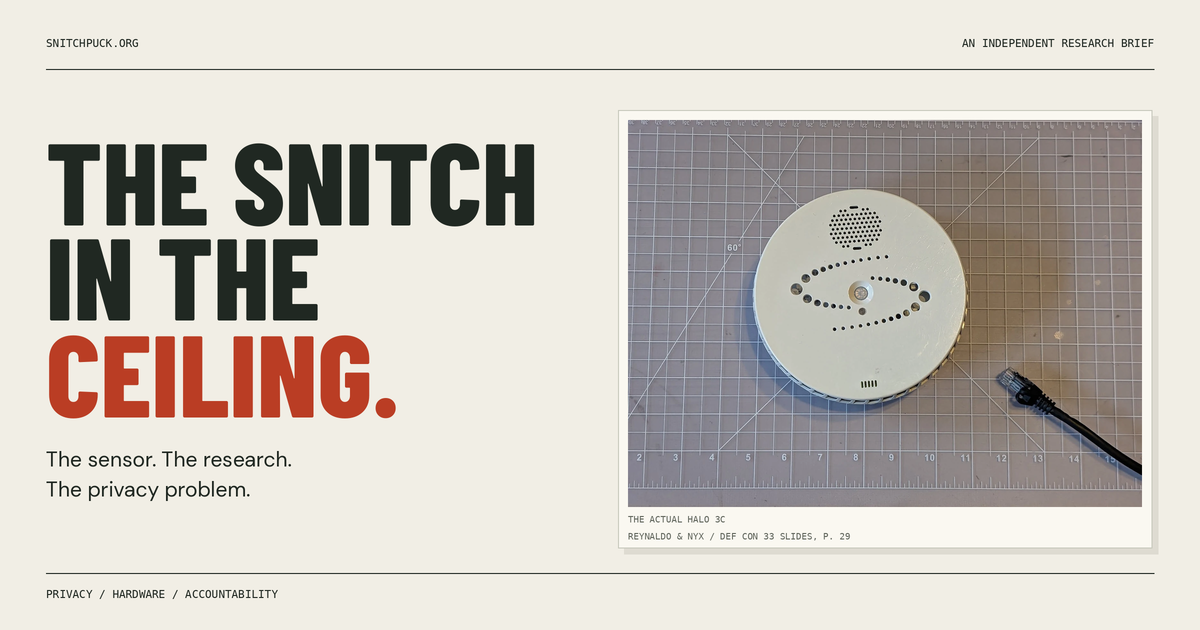
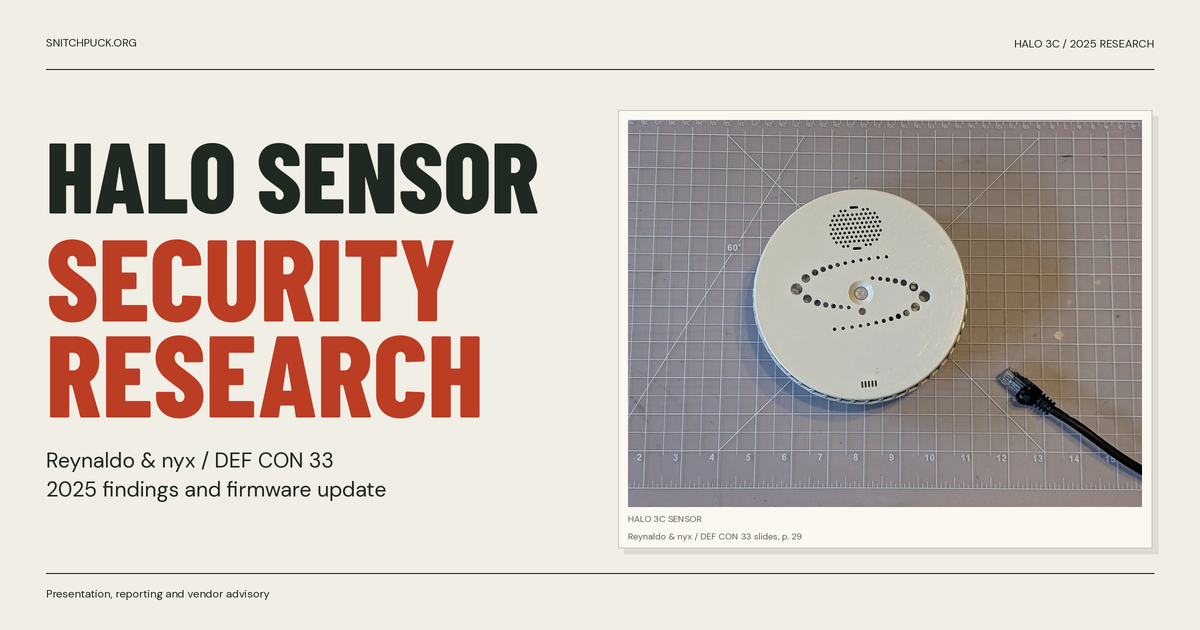
Replace promotional copy with a factual research summary

diff --git a/site/index.html b/site/index.html
@@ -4,11 +4,11 @@
 <meta charset="utf-8">
 <meta name="viewport" content="width=device-width, initial-scale=1">
 <meta name="theme-color" content="#f1eee5">
-<title>Snitch Puck | The sensor. The research. The privacy problem.</title>
-<meta name="description" content="How two researchers turned a school bathroom vape detector into an audio bug. An independent, sourced guide to the HALO research, disclosure, and response.">
+<title>HALO sensor security research | Snitch Puck</title>
+<meta name="description" content="Reynaldo and nyx’s 2025 research into HALO vape detectors, the reported vulnerabilities, and the vendor’s firmware update. Includes the talk, slides and sources.">
 <link rel="canonical" href="https://snitchpuck.org/">
-<meta property="og:title" content="The snitch in the ceiling.">
-<meta property="og:description" content="A school bathroom sensor. Two curious researchers. A privacy promise put to the test. Explore the Snitch Puck research.">
+<meta property="og:title" content="HALO sensor security research">
+<meta property="og:description" content="A summary of the 2025 HALO research, with the DEF CON talk, presentation slides, reporting and vendor advisory.">
 <meta property="og:type" content="website">
 <meta property="og:url" content="https://snitchpuck.org/">
 <meta property="og:image" content="https://snitchpuck.org/assets/social.png">
@@ -17,46 +17,42 @@
 <link rel="stylesheet" href="/assets/style.css">
 </head>
 <body id="top">
-<a class="skip" href="#story">Skip to the story</a>
+<a class="skip" href="#story">Skip to the research</a>
 <header class="header wrap">
 <a class="wordmark" href="#top" aria-label="Snitch Puck home"><svg viewBox="0 0 32 32" aria-hidden="true"><circle cx="16" cy="16" r="13"/><circle cx="16" cy="16" r="6"/><path d="M16 0v6m0 20v6M0 16h6m20 0h6"/></svg> SNITCHPUCK<span>.ORG</span></a>
-<nav aria-label="Main navigation"><a href="#story">The story</a><a href="#response">The response</a><a href="#sources">Sources <span aria-hidden="true">↗</span></a></nav>
+<nav aria-label="Main navigation"><a href="#story">Research</a><a href="#response">Timeline</a><a href="#sources">Sources <span aria-hidden="true">↗</span></a></nav>
 </header>
 <main>
 <section class="hero wrap" aria-labelledby="hero-title">
-<div class="hero-top mono"><span><i class="dot" aria-hidden="true"></i> AN INDEPENDENT RESEARCH BRIEF</span><span>PRIVACY / HARDWARE / ACCOUNTABILITY</span></div>
+<div class="hero-top mono"><span><i class="dot" aria-hidden="true"></i> HALO SMART SENSOR</span><span>DEF CON 33 / 2025</span></div>
 <div class="hero-grid">
-<div class="hero-copy"><h1 id="hero-title">THE SNITCH<br>IN THE<br><span>CEILING.</span></h1>
-<p class="dek">A school bathroom sensor. Two curious researchers. A privacy promise put to the test.</p>
-<div class="hero-actions"><a class="button primary" href="#story">Follow the research <span aria-hidden="true">↓</span></a><a class="text-link" href="https://www.youtube.com/watch?v=WCnojaEpF2I">Watch the DEF CON talk <span aria-hidden="true">↗</span></a></div>
+<div class="hero-copy"><h1 id="hero-title">HALO SENSOR<br><span>SECURITY<br>RESEARCH</span></h1>
+<p class="dek">In 2025, Reynaldo and nyx reported security flaws in the HALO 3C vape detector and demonstrated live audio monitoring.</p>
+<div class="hero-actions"><a class="button primary" href="#story">Research summary <span aria-hidden="true">↓</span></a><a class="text-link" href="https://www.youtube.com/watch?v=WCnojaEpF2I">Watch the DEF CON talk <span aria-hidden="true">↗</span></a></div>
 </div>
-<figure class="hero-art"><img src="/assets/halo-3c-photo.webp" alt="The actual HALO 3C sensor on a gridded workbench beside an Ethernet cable." width="1600" height="1204" fetchpriority="high"><figcaption class="mono">FIG. 01 / THE ACTUAL HALO 3C<br>FROM <a href="https://media.defcon.org/DEF%20CON%2033/DEF%20CON%2033%20presentations/Reynaldo%20nyx%20-%20Unmasking%20the%20snitch%20puck.pdf#page=29">REYNALDO &amp; NYX’S DEF CON 33 SLIDES, P. 29 <span aria-hidden="true">↗</span></a></figcaption></figure>
+<figure class="hero-art"><img src="/assets/halo-3c-photo.webp" alt="HALO 3C sensor on a workbench beside an Ethernet cable." width="1600" height="1204" fetchpriority="high"><figcaption class="mono">HALO 3C SENSOR<br>FROM <a href="https://media.defcon.org/DEF%20CON%2033/DEF%20CON%2033%20presentations/Reynaldo%20nyx%20-%20Unmasking%20the%20snitch%20puck.pdf#page=29">REYNALDO &amp; NYX’S DEF CON 33 SLIDES, P. 29 <span aria-hidden="true">↗</span></a></figcaption></figure>
 </div>
-<div class="hero-bottom mono"><span>CASE FILE 001 / HALO SMART SENSOR</span><a href="#story">LOOK A LITTLE CLOSER <span aria-hidden="true">↓</span></a></div>
+<div class="hero-bottom mono"><span>REYNALDO &amp; NYX / 2025 RESEARCH</span><a href="#story">RESEARCH SUMMARY <span aria-hidden="true">↓</span></a></div>
 </section>
-<section class="thesis" aria-label="The central finding"><div class="wrap thesis-grid"><p class="mono section-kicker">THE CENTRAL FINDING</p><p>A device sold for private spaces could become a listening device <em>when its software was compromised.</em> <a class="cite light" href="#source-2" aria-label="Source 2, WIRED reporting">[2]</a></p></div></section>
 <section class="section wrap" id="story" aria-labelledby="story-title">
-<div class="section-head"><p class="mono section-kicker">01 / THE STORY</p><h2 id="story-title">It started with<br>a student’s curiosity.</h2></div>
-<div class="story-grid"><div class="lede"><p>Rey found an unfamiliar device on his high school’s network. Getting a secondhand unit to examine turned a question about a ceiling sensor into a public security investigation.</p><p class="small">In his BSidesPDX retrospective, Rey describes moving from web security into hardware research and the Portland community that helped him along the way. <a class="cite" href="#source-5" aria-label="Source 5, Rey's BSidesPDX account">[5]</a></p></div>
-<div class="story-detail"><p class="mono eyebrow">FROM NETWORK DISCOVERY TO DEF CON</p><p>Reynaldo and nyx took the device apart, extracted its firmware, and examined the software behind its reassuring exterior. Their work became <em>Unmasking the Snitch Puck</em>, presented at DEF CON 33 in August 2025. <a class="cite" href="#source-1" aria-label="Source 1, DEF CON recording">[1]</a> <a class="cite" href="#source-8" aria-label="Source 8, conference archive">[8]</a></p><p>WIRED reported that attackers on the device’s network could guess weak administrator passwords and install custom firmware. Researchers demonstrated live listening through a secondhand HALO 3C’s microphones. <a class="cite" href="#source-2" aria-label="Source 2, WIRED reporting">[2]</a></p><p class="note"><strong>Read the finding carefully.</strong> A demonstrated capability is not proof that deployed devices were secretly recording people. The vendor’s advisory said it knew of no exploitation in customer environments. <a class="cite" href="#source-3" aria-label="Source 3, vendor advisory">[3]</a></p></div></div>
+<div class="section-head"><p class="mono section-kicker">01 / RESEARCH</p><h2 id="story-title">Research by Reynaldo and nyx</h2></div>
+<div class="story-grid"><div class="lede"><p>Rey found a HALO sensor on his high school’s network and later obtained a secondhand unit to examine.</p><p class="small">His BSidesPDX 2025 presentation describes the project’s origins. <a class="cite" href="#source-5" aria-label="Source 5, Rey's BSidesPDX account">[5]</a></p></div>
+<div class="story-detail"><p class="mono eyebrow">DEF CON 33 / AUGUST 2025</p><p>Reynaldo and nyx disassembled the unit, extracted its firmware and analyzed its software. They presented the findings at DEF CON 33 on August 8, 2025. <a class="cite" href="#source-1" aria-label="Source 1, DEF CON recording">[1]</a> <a class="cite" href="#source-8" aria-label="Source 8, conference archive">[8]</a></p><p>WIRED reported that an attacker on the device’s network could guess weak administrator passwords and install custom firmware. The researchers demonstrated live listening through the sensor’s microphones. <a class="cite" href="#source-2" aria-label="Source 2, WIRED reporting">[2]</a></p><p class="note">The demonstration does not establish that installed devices recorded occupants. The vendor’s August 2025 advisory said it knew of no exploitation in customer environments. <a class="cite" href="#source-3" aria-label="Source 3, vendor advisory">[3]</a></p></div></div>
 </section>
 <section class="device-section" aria-labelledby="device-title"><div class="wrap section">
-<div class="section-head"><p class="mono section-kicker">02 / INSIDE THE PROMISE</p><h2 id="device-title">No camera.<br>Still a privacy question.</h2></div>
-<div class="promise-grid"><div><p class="lede">HALO is marketed for vape detection, air quality, and safety alerts in places where cameras would be intrusive.</p><p>Its advertised audio analytics include selected spoken keywords, critical noises, and gunshot detection. <a class="cite" href="#source-4" aria-label="Source 4, product claims">[4]</a> Motorola’s 2024 solution brief describes HALO as <q>not using visual or audio recording</q>. <a class="cite" href="#source-9" aria-label="Source 9, Motorola solution brief">[9]</a> These are vendor claims, not an independent test of detection accuracy.</p></div><div class="signal-diagram" role="img" aria-label="The privacy boundary: audio sensing feeds software analysis, which produces an alert. The software is the part that must enforce the recording limit."><div class="signal-step"><span class="signal-icon" aria-hidden="true">∿</span><span>AUDIO INPUT</span></div><span class="diagram-arrow" aria-hidden="true">→</span><div class="signal-step boundary"><span class="signal-icon" aria-hidden="true">{ }</span><span>SOFTWARE</span></div><span class="diagram-arrow" aria-hidden="true">→</span><div class="signal-step"><span class="signal-icon" aria-hidden="true">!</span><span>ALERT</span></div><p>THE PRIVACY BOUNDARY LIVES IN THE SOFTWARE.</p></div></div>
-<div class="editorial-take"><span class="mono">OUR TAKEAWAY</span><p>A promise about what a sensor normally does depends on who can change what it does. Security is part of the privacy promise.</p></div>
+<div class="section-head"><p class="mono section-kicker">02 / DEVICE</p><h2 id="device-title">What HALO detects</h2></div>
+<div class="promise-grid"><div><p class="lede">HALO is marketed for vape detection, air quality monitoring and safety alerts.</p><p>Vendor-advertised audio features include selected spoken keywords, critical noises and gunshot detection. <a class="cite" href="#source-4" aria-label="Source 4, product claims">[4]</a> Motorola’s 2024 solution brief describes HALO as <q>not using visual or audio recording</q>. <a class="cite" href="#source-9" aria-label="Source 9, Motorola solution brief">[9]</a></p></div><div class="signal-diagram" role="img" aria-label="Simplified audio processing: audio input, software analysis and an alert."><div class="signal-step"><span class="signal-icon" aria-hidden="true">∿</span><span>AUDIO INPUT</span></div><span class="diagram-arrow" aria-hidden="true">→</span><div class="signal-step boundary"><span class="signal-icon" aria-hidden="true">{ }</span><span>SOFTWARE</span></div><span class="diagram-arrow" aria-hidden="true">→</span><div class="signal-step"><span class="signal-icon" aria-hidden="true">!</span><span>ALERT</span></div><p>SIMPLIFIED AUDIO PROCESSING</p></div></div>
 </div></section>
-<section class="section wrap" aria-labelledby="findings-title"><div class="section-head"><p class="mono section-kicker">03 / WHAT FAILED</p><h2 id="findings-title">Two weaknesses.<br>One broken boundary.</h2></div>
-<div class="findings"><article><span class="finding-number mono">01</span><h3>The login barrier</h3><p>The vendor acknowledged that brute-force attacks could bypass protections on the device’s web portal.</p><a class="source-inline" href="#source-3">Vendor advisory <span aria-hidden="true">↗</span></a></article><article><span class="finding-number mono">02</span><h3>The update barrier</h3><p>The same advisory acknowledged the ability to install unauthorized or malicious firmware.</p><a class="source-inline" href="#source-3">Vendor advisory <span aria-hidden="true">↗</span></a></article><article class="finding-result"><span class="finding-number mono">→</span><h3>The privacy barrier</h3><p>Controlling the software let the researchers repurpose a sensor as an audio bug.</p><a class="source-inline" href="#source-2">WIRED reporting <span aria-hidden="true">↗</span></a></article></div>
-<p class="section-footnote">This is a summary of the published research. It does not assess the configuration or firmware of any particular installation today.</p>
+<section class="section wrap" aria-labelledby="findings-title"><div class="section-head"><p class="mono section-kicker">03 / VULNERABILITIES</p><h2 id="findings-title">Reported vulnerabilities</h2></div>
+<div class="findings"><article><span class="finding-number mono">01</span><h3>Administrator login</h3><p>The vendor acknowledged that brute-force attacks could bypass protections on the device’s web portal.</p><a class="source-inline" href="#source-3">Vendor advisory <span aria-hidden="true">↗</span></a></article><article><span class="finding-number mono">02</span><h3>Firmware validation</h3><p>The same advisory acknowledged the ability to install unauthorized or malicious firmware.</p><a class="source-inline" href="#source-3">Vendor advisory <span aria-hidden="true">↗</span></a></article><article class="finding-result"><span class="finding-number mono">→</span><h3>Microphone access</h3><p>The researchers used modified firmware to demonstrate live audio monitoring.</p><a class="source-inline" href="#source-10">Presentation slides <span aria-hidden="true">↗</span></a></article></div>
 </section>
-<section class="timeline-section" id="response" aria-labelledby="response-title"><div class="section wrap timeline-layout"><div class="timeline-intro"><p class="mono section-kicker">04 / THE PUBLIC RECORD</p><h2 id="response-title">What happened.<br>What changed.</h2><p>Follow the product’s expansion, the disclosure, and the response.</p><span class="timeline-stamp mono">2023 → 2025</span></div>
-<ol class="timeline"><li><time datetime="2023-06-01" class="mono">JUN 01, 2023</time><div><h3>Beyond school bathrooms</h3><p>A vendor case study describes 12 HALO devices installed in Saratoga Springs public-housing apartments earlier that year to enforce a nonsmoking policy. <a class="cite" href="#source-6" aria-label="Source 6, housing case study">[6]</a></p></div></li><li><time datetime="2023-12-18" class="mono">DEC 18, 2023</time><div><h3>Motorola acquires IPVideo</h3><p>Motorola Solutions announces its acquisition of the company behind HALO. <a class="cite" href="#source-7" aria-label="Source 7, acquisition announcement">[7]</a></p></div></li><li><time datetime="2025-08-04" class="mono">AUG 04, 2025</time><div><h3>A critical security advisory</h3><p>The vendor publishes affected firmware versions and identifies version 2.17.0.2 as addressing the vulnerabilities. <a class="cite" href="#source-3" aria-label="Source 3, vendor advisory">[3]</a></p></div></li><li><time datetime="2025-08-08" class="mono">AUG 08, 2025</time><div><h3>The findings go public</h3><p>Reynaldo and nyx present at DEF CON 33. WIRED publishes its report on the audio-bug demonstration. <a class="cite" href="#source-8" aria-label="Source 8, conference archive">[8]</a> <a class="cite" href="#source-2" aria-label="Source 2, WIRED reporting">[2]</a></p></div></li><li><time datetime="2025-10-10" class="mono">OCT 10, 2025</time><div><h3>The talk reaches a wider audience</h3><p>DEF CON publishes the conference recording on its YouTube channel. <a class="cite" href="#source-1" aria-label="Source 1, DEF CON recording">[1]</a></p></div></li></ol>
+<section class="timeline-section" id="response" aria-labelledby="response-title"><div class="section wrap timeline-layout"><div class="timeline-intro"><p class="mono section-kicker">04 / DATES</p><h2 id="response-title">Timeline</h2><span class="timeline-stamp mono">2023 → 2025</span></div>
+<ol class="timeline"><li><time datetime="2023-06-01" class="mono">JUN 01, 2023</time><div><h3>Housing case study published</h3><p>A vendor case study describes 12 HALO devices installed in Saratoga Springs public-housing apartments earlier that year to enforce a nonsmoking policy. <a class="cite" href="#source-6" aria-label="Source 6, housing case study">[6]</a></p></div></li><li><time datetime="2023-12-18" class="mono">DEC 18, 2023</time><div><h3>Motorola acquires IPVideo</h3><p>Motorola Solutions announces its acquisition of IPVideo, the company behind HALO. <a class="cite" href="#source-7" aria-label="Source 7, acquisition announcement">[7]</a></p></div></li><li><time datetime="2025-08-04" class="mono">AUG 04, 2025</time><div><h3>Security advisory published</h3><p>The vendor publishes affected firmware versions and identifies version 2.17.0.2 as addressing the vulnerabilities. <a class="cite" href="#source-3" aria-label="Source 3, vendor advisory">[3]</a></p></div></li><li><time datetime="2025-08-08" class="mono">AUG 08, 2025</time><div><h3>DEF CON presentation</h3><p>Reynaldo and nyx present the research at DEF CON 33. WIRED publishes its report the same day. <a class="cite" href="#source-8" aria-label="Source 8, conference archive">[8]</a> <a class="cite" href="#source-2" aria-label="Source 2, WIRED reporting">[2]</a></p></div></li><li><time datetime="2025-10-10" class="mono">OCT 10, 2025</time><div><h3>Talk recording published</h3><p>DEF CON publishes the recording on YouTube. <a class="cite" href="#source-1" aria-label="Source 1, DEF CON recording">[1]</a></p></div></li></ol>
 </div></section>
-<section class="section wrap remediation" aria-labelledby="remediation-title"><div class="section-head"><p class="mono section-kicker">05 / THE VENDOR RESPONSE</p><h2 id="remediation-title">A fix was issued.<br>Deployment still matters.</h2></div><div class="remediation-grid"><div><p class="lede">The August 2025 advisory identifies a firmware remedy. It does not establish the update status of every device.</p><p>Cloud-connected units were to update automatically, except where customers opted out. Standalone units require manual installation. <a class="cite" href="#source-3" aria-label="Source 3, vendor advisory">[3]</a></p></div><div class="firmware"><table><caption class="mono">AFFECTED VERSIONS IN THE AUG 04, 2025 ADVISORY</caption><thead><tr><th scope="col">Device</th><th scope="col">Affected firmware</th></tr></thead><tbody><tr><th scope="row">HALO 3C</th><td>2.15.0.13 and earlier</td></tr><tr><th scope="row">HALO 2 / 2C</th><td>2.14.3.0 and earlier</td></tr></tbody></table><p><strong>Named fix: 2.17.0.2.</strong> For a current installation, check the vendor’s latest firmware and verify that it is installed. <a class="cite" href="#source-3" aria-label="Source 3, vendor advisory">[3]</a></p><a class="text-link" href="https://web.archive.org/web/20260922180259/https://halodetect.com/product-security/security-advisory/">Read the archived advisory <span aria-hidden="true">↗</span></a></div></div></section>
-<section class="questions-section"><div class="wrap section"><p class="mono section-kicker">06 / THE BIGGER QUESTION</p><h2>Who gets to decide<br>what a private space senses?</h2><p class="questions-dek">The patch addresses reported vulnerabilities. The research also invites a conversation about consent, oversight, and the limits of safety technology.</p><div class="questions"><div><span class="mono">ASK ABOUT PURPOSE</span><p>What problem is this sensor meant to solve, and what evidence shows it helps?</p></div><div><span class="mono">ASK ABOUT ACCESS</span><p>Who can access the device, change its firmware, or see the information it produces?</p></div><div><span class="mono">ASK ABOUT ACCOUNTABILITY</span><p>Who checks updates, reviews mistakes, and hears concerns from the people being monitored?</p></div></div><p class="questions-note">These are editorial questions for a school board, housing authority, or administrator, rather than findings about any specific deployment.</p></div></section>
-<section class="section wrap watch" aria-labelledby="watch-title"><div class="watch-visual" aria-hidden="true"><div class="play-triangle"></div><span class="mono">DEF CON 33<br>LAS VEGAS / 2025</span><div class="watch-lines"></div></div><div><p class="mono section-kicker">START WITH THE PRIMARY SOURCE</p><h2 id="watch-title">Hear it from<br>the researchers.</h2><p><em>Unmasking the Snitch Puck: IoT surveillance tech in the school bathroom</em><br>Reynaldo &amp; nyx · DEF CON 33</p><div class="watch-actions"><a class="button primary" href="https://www.youtube.com/watch?v=WCnojaEpF2I">Watch the full talk <span aria-hidden="true">↗</span></a><a class="text-link" href="https://media.defcon.org/DEF%20CON%2033/DEF%20CON%2033%20presentations/Reynaldo%20nyx%20-%20Unmasking%20the%20snitch%20puck.pdf">Read the slides (PDF) <span aria-hidden="true">↗</span></a></div><p class="small watch-privacy">The video opens on YouTube. No third-party player loads on this page.</p></div></section>
-<section class="sources-section" id="sources" aria-labelledby="sources-title"><div class="wrap section"><div class="sources-heading"><div><p class="mono section-kicker">07 / GO TO THE SOURCE</p><h2 id="sources-title">The reading room.</h2></div><p>Reporting, researcher accounts, and the vendor’s own documents. Each plays a different role in this story.</p></div><ol class="sources"><li id="source-1"><span class="source-type mono">PRIMARY / TALK</span><a href="https://www.youtube.com/watch?v=WCnojaEpF2I"><strong>Unmasking the Snitch Puck</strong><span>DEF CON · Reynaldo &amp; nyx · October 10, 2025 upload</span><b aria-hidden="true">↗</b></a></li><li id="source-2"><span class="source-type mono">REPORTING</span><a href="https://www.wired.com/story/school-bathroom-vape-detector-audio-bug/"><strong>A school bathroom detector becomes an audio bug</strong><span>WIRED with 404 Media · Andy Greenberg &amp; Joseph Cox · August 8, 2025</span><b aria-hidden="true">↗</b></a></li><li id="source-3"><span class="source-type mono">VENDOR / ADVISORY</span><a href="https://web.archive.org/web/20260922180259/https://halodetect.com/product-security/security-advisory/"><strong>HALO security advisory</strong><span>Motorola Solutions / HALO · August 4, 2025 entry · archived September 22, 2026</span><b aria-hidden="true">↗</b></a></li><li id="source-4"><span class="source-type mono">VENDOR / PRODUCT</span><a href="https://www.avigilon.com/sensors/halo-smart-sensor-3c"><strong>HALO 3C Smart Sensor</strong><span>Avigilon / Motorola Solutions · advertised capabilities and privacy claims</span><b aria-hidden="true">↗</b></a></li><li id="source-5"><span class="source-type mono">RESEARCHER ACCOUNT</span><a href="https://bsidespdx.org/events/2025/speakers"><strong>Beyond the Mask: The Snitchpuck</strong><span>Rey · BSidesPDX 2025 speaker abstract</span><b aria-hidden="true">↗</b></a></li><li id="source-6"><span class="source-type mono">VENDOR / CASE STUDY</span><a href="https://halodetect.com/case-studies/saratoga-springs-housing-authority/"><strong>Saratoga Springs Housing Authority</strong><span>HALO · June 1, 2023 · public-housing deployment</span><b aria-hidden="true">↗</b></a></li><li id="source-7"><span class="source-type mono">VENDOR / ANNOUNCEMENT</span><a href="https://www.motorolasolutions.com/newsroom/press-releases/motorola-solutions-acquires-halo-smart-sensor-creator-ipvideo.html"><strong>Motorola Solutions acquires IPVideo</strong><span>Motorola Solutions · December 18, 2023</span><b aria-hidden="true">↗</b></a></li><li id="source-8"><span class="source-type mono">CONFERENCE ARCHIVE</span><a href="https://infocondb.org/con/def-con/def-con-33/unmasking-the-snitch-puck-the-creepy-iot-surveillance-tech-in-the-school-bathroom"><strong>DEF CON 33 presentation record</strong><span>InfoconDB · August 8, 2025 presentation</span><b aria-hidden="true">↗</b></a></li><li id="source-9"><span class="source-type mono">VENDOR / SOLUTION BRIEF</span><a href="https://www.motorolasolutions.com/content/dam/msi/images/solutions/utilities/solving_for_safer_utilities_solution_brief_xp.pdf"><strong>Solving for safer utilities</strong><span>Motorola Solutions · 2024 · HALO recording claim on PDF page 4</span><b aria-hidden="true">↗</b></a></li><li id="source-10"><span class="source-type mono">PRIMARY / SLIDES</span><a href="https://media.defcon.org/DEF%20CON%2033/DEF%20CON%2033%20presentations/Reynaldo%20nyx%20-%20Unmasking%20the%20snitch%20puck.pdf"><strong>Unmasking the Snitch Puck: presentation slides</strong><span>Reynaldo &amp; nyx · DEF CON 33 · hardware photos on pages 29–35</span><b aria-hidden="true">↗</b></a></li></ol><p class="source-note">Sources checked October 14, 2026. Product pages may change. The advisory dates and firmware versions above refer to the 2025 disclosure.</p></div></section>
+<section class="section wrap remediation" aria-labelledby="remediation-title"><div class="section-head"><p class="mono section-kicker">05 / FIRMWARE</p><h2 id="remediation-title">August 2025 firmware update</h2></div><div class="remediation-grid"><div><p class="lede">The advisory lists the following affected versions and names firmware 2.17.0.2 as the fix.</p><p>Cloud-connected units were to update automatically, except where customers opted out. Standalone units require manual installation. <a class="cite" href="#source-3" aria-label="Source 3, vendor advisory">[3]</a></p></div><div class="firmware"><table><caption class="mono">AFFECTED VERSIONS IN THE AUG 04, 2025 ADVISORY</caption><thead><tr><th scope="col">Device</th><th scope="col">Affected firmware</th></tr></thead><tbody><tr><th scope="row">HALO 3C</th><td>2.15.0.13 and earlier</td></tr><tr><th scope="row">HALO 2 / 2C</th><td>2.14.3.0 and earlier</td></tr></tbody></table><p>These versions refer to the August 2025 advisory. They do not establish the current firmware of any particular installation. <a class="cite" href="#source-3" aria-label="Source 3, vendor advisory">[3]</a></p><a class="text-link" href="https://web.archive.org/web/20260922180259/https://halodetect.com/product-security/security-advisory/">Read the archived advisory <span aria-hidden="true">↗</span></a></div></div></section>
+<section class="section wrap watch" aria-labelledby="watch-title"><div class="watch-visual" aria-hidden="true"><div class="play-triangle"></div><span class="mono">DEF CON 33<br>LAS VEGAS / 2025</span><div class="watch-lines"></div></div><div><p class="mono section-kicker">06 / PRESENTATION</p><h2 id="watch-title">Talk and slides</h2><p><em>Unmasking the Snitch Puck: IoT surveillance tech in the school bathroom</em><br>Reynaldo &amp; nyx · DEF CON 33</p><div class="watch-actions"><a class="button primary" href="https://www.youtube.com/watch?v=WCnojaEpF2I">Watch the talk <span aria-hidden="true">↗</span></a><a class="text-link" href="https://media.defcon.org/DEF%20CON%2033/DEF%20CON%2033%20presentations/Reynaldo%20nyx%20-%20Unmasking%20the%20snitch%20puck.pdf">Read the slides (PDF) <span aria-hidden="true">↗</span></a></div><p class="small watch-privacy">Recorded at DEF CON 33; uploaded October 10, 2025.</p></div></section>
+<section class="sources-section" id="sources" aria-labelledby="sources-title"><div class="wrap section"><div class="sources-heading"><div><p class="mono section-kicker">07 / REFERENCES</p><h2 id="sources-title">Sources</h2></div><p>Researcher materials, reporting and vendor documents.</p></div><ol class="sources"><li id="source-1"><span class="source-type mono">PRIMARY / TALK</span><a href="https://www.youtube.com/watch?v=WCnojaEpF2I"><strong>Unmasking the Snitch Puck</strong><span>DEF CON · Reynaldo &amp; nyx · October 10, 2025 upload</span><b aria-hidden="true">↗</b></a></li><li id="source-2"><span class="source-type mono">REPORTING</span><a href="https://www.wired.com/story/school-bathroom-vape-detector-audio-bug/"><strong>WIRED report on HALO sensor vulnerabilities</strong><span>WIRED with 404 Media · Andy Greenberg &amp; Joseph Cox · August 8, 2025</span><b aria-hidden="true">↗</b></a></li><li id="source-3"><span class="source-type mono">VENDOR / ADVISORY</span><a href="https://web.archive.org/web/20260922180259/https://halodetect.com/product-security/security-advisory/"><strong>HALO security advisory</strong><span>Motorola Solutions / HALO · August 4, 2025 entry · archived September 22, 2026</span><b aria-hidden="true">↗</b></a></li><li id="source-4"><span class="source-type mono">VENDOR / PRODUCT</span><a href="https://www.avigilon.com/sensors/halo-smart-sensor-3c"><strong>HALO 3C Smart Sensor</strong><span>Avigilon / Motorola Solutions · advertised capabilities and privacy claims</span><b aria-hidden="true">↗</b></a></li><li id="source-5"><span class="source-type mono">RESEARCHER ACCOUNT</span><a href="https://bsidespdx.org/events/2025/speakers"><strong>Beyond the Mask: The Snitchpuck</strong><span>Rey · BSidesPDX 2025 speaker abstract</span><b aria-hidden="true">↗</b></a></li><li id="source-6"><span class="source-type mono">VENDOR / CASE STUDY</span><a href="https://halodetect.com/case-studies/saratoga-springs-housing-authority/"><strong>Saratoga Springs Housing Authority</strong><span>HALO · June 1, 2023 · public-housing deployment</span><b aria-hidden="true">↗</b></a></li><li id="source-7"><span class="source-type mono">VENDOR / ANNOUNCEMENT</span><a href="https://www.motorolasolutions.com/newsroom/press-releases/motorola-solutions-acquires-halo-smart-sensor-creator-ipvideo.html"><strong>Motorola Solutions acquires IPVideo</strong><span>Motorola Solutions · December 18, 2023</span><b aria-hidden="true">↗</b></a></li><li id="source-8"><span class="source-type mono">CONFERENCE ARCHIVE</span><a href="https://infocondb.org/con/def-con/def-con-33/unmasking-the-snitch-puck-the-creepy-iot-surveillance-tech-in-the-school-bathroom"><strong>DEF CON 33 presentation record</strong><span>InfoconDB · August 8, 2025 presentation</span><b aria-hidden="true">↗</b></a></li><li id="source-9"><span class="source-type mono">VENDOR / SOLUTION BRIEF</span><a href="https://www.motorolasolutions.com/content/dam/msi/images/solutions/utilities/solving_for_safer_utilities_solution_brief_xp.pdf"><strong>Solving for safer utilities</strong><span>Motorola Solutions · 2024 · HALO recording claim on PDF page 4</span><b aria-hidden="true">↗</b></a></li><li id="source-10"><span class="source-type mono">PRIMARY / SLIDES</span><a href="https://media.defcon.org/DEF%20CON%2033/DEF%20CON%2033%20presentations/Reynaldo%20nyx%20-%20Unmasking%20the%20snitch%20puck.pdf"><strong>Unmasking the Snitch Puck: presentation slides</strong><span>Reynaldo &amp; nyx · DEF CON 33 · hardware photos on pages 29–35</span><b aria-hidden="true">↗</b></a></li></ol><p class="source-note">Sources checked October 14, 2026. Product pages may change. The advisory dates and firmware versions above refer to the 2025 disclosure.</p></div></section>
 </main>
-<footer class="footer wrap"><div><a class="wordmark" href="#top">SNITCHPUCK<span>.ORG</span></a><p>An independent guide to published security research.<br>Not affiliated with the researchers, DEF CON, or Motorola Solutions.</p></div><div class="footer-right"><p>Device photo from <a href="https://media.defcon.org/DEF%20CON%2033/DEF%20CON%2033%20presentations/Reynaldo%20nyx%20-%20Unmasking%20the%20snitch%20puck.pdf#page=29">Reynaldo &amp; nyx’s slides</a>; the deck credits Matt H for photo assistance. No analytics.<br>No third-party fonts or embeds.</p><a class="mono" href="#top">BACK TO TOP ↑</a></div></footer>
+<footer class="footer wrap"><div><a class="wordmark" href="#top">SNITCHPUCK<span>.ORG</span></a><p>Independent summary of published research.<br>Not affiliated with the researchers, DEF CON, or Motorola Solutions.</p></div><div class="footer-right"><p>Photo from <a href="https://media.defcon.org/DEF%20CON%2033/DEF%20CON%2033%20presentations/Reynaldo%20nyx%20-%20Unmasking%20the%20snitch%20puck.pdf#page=29">Reynaldo &amp; nyx’s slides</a>. The authors thank Matt H for photo assistance.<br>No analytics.</p><a class="mono" href="#top">BACK TO TOP ↑</a></div></footer>
 </body>
 </html>

diff --git a/site/assets/style.css b/site/assets/style.css
@@ -8,3 +8,5 @@
 .promise-grid>div{min-width:0}@media(max-width:760px){.signal-diagram{gap:8px;min-width:0}.signal-step{width:auto;flex:1;min-width:0}.diagram-arrow{font-size:18px;flex:0 0 auto}}
 
 .hero-art{padding:10px;background:#faf8f1;border:1px solid var(--line);box-shadow:7px 7px 0 #dedbd1}.hero-art img{display:block}.hero-art figcaption{text-align:left;line-height:1.6;padding:11px 3px 2px}.hero-art figcaption a{color:var(--ink);text-underline-offset:3px}.watch-actions{display:flex;align-items:center;flex-wrap:wrap;gap:22px;margin-top:22px}@media(max-width:760px){.hero-art{width:100%;margin-top:32px;box-shadow:5px 5px 0 #dedbd1}}
+
+.hero h1{font-size:clamp(60px,8vw,118px);line-height:.92}@media(max-width:760px){.hero h1{font-size:clamp(50px,16vw,100px);line-height:.92;letter-spacing:-1px}}

diff --git a/site/404.html b/site/404.html
@@ -16,5 +16,5 @@
     a:focus-visible { outline: 2px solid currentColor; outline-offset: 6px; }
   </style>
 </head>
-<body><main><p class="number">404 / SIGNAL LOST</p><h1>This page is out of range.</h1><p>The research brief lives on one page. Follow the link below to return to the story and its sources.</p><p><a href="/">Back to Snitch Puck</a></p></main></body>
+<body><main><p class="number">404</p><h1>Page not found</h1><p>Return to the homepage for the research summary and sources.</p><p><a href="/">Back to Snitch Puck</a></p></main></body>
 </html>

diff --git a/scripts/make-social.py b/scripts/make-social.py
@@ -1,0 +1,57 @@
+"""Render the static social image. Requires Pillow, fontTools and Brotli."""
+from io import BytesIO
+from pathlib import Path
+from PIL import Image, ImageDraw, ImageFont
+from fontTools.ttLib import TTFont
+
+ROOT = Path(__file__).resolve().parents[1]
+SCALE = 2
+PAPER, INK, RED, MUTED = '#f1eee5', '#202822', '#ba3d24', '#60655c'
+
+
+def font(stem, size):
+    face = TTFont(ROOT / 'site/assets' / (stem + '.woff2'))
+    face.flavor = None
+    data = BytesIO()
+    face.save(data)
+    data.seek(0)
+    return ImageFont.truetype(data, size * SCALE)
+
+
+card = Image.new('RGB', (1200 * SCALE, 630 * SCALE), PAPER)
+draw = ImageDraw.Draw(card)
+heading = font('barlow-condensed-latin', 116)
+label = font('dm-sans-latin', 11)
+small = font('dm-sans-latin', 9)
+body = font('dm-sans-latin', 21)
+
+
+def text(x, y, value, face, color=INK):
+    draw.text((x * SCALE, y * SCALE), value, font=face, fill=color, anchor='lt')
+
+
+def rectangle(box, fill, outline=None):
+    draw.rectangle(tuple(int(n * SCALE) for n in box), fill=fill,
+                   outline=outline, width=SCALE)
+
+
+text(46, 39, 'SNITCHPUCK.ORG', label)
+right = 'HALO 3C / 2025 RESEARCH'
+text(1154 - draw.textlength(right, font=label) / SCALE, 39, right, label)
+draw.line((46 * SCALE, 69 * SCALE, 1154 * SCALE, 69 * SCALE), fill=INK, width=SCALE)
+text(46, 143, 'HALO SENSOR', font('barlow-condensed-latin', 100))
+text(46, 239, 'SECURITY', heading, RED)
+text(46, 335, 'RESEARCH', heading, RED)
+text(46, 451, 'Reynaldo & nyx / DEF CON 33', body)
+text(46, 481, '2025 findings and firmware update', body)
+rectangle((624, 116, 1158, 554), '#dedbd1')
+rectangle((618, 110, 1152, 548), '#faf8f1', '#c8c9bd')
+photo = Image.open(ROOT / 'site/assets/halo-3c-photo.webp').convert('RGB')
+photo.thumbnail((514 * SCALE, 390 * SCALE), Image.Resampling.LANCZOS)
+card.paste(photo, (628 * SCALE, 120 * SCALE))
+text(628, 516, 'HALO 3C SENSOR', small, MUTED)
+text(628, 533, 'Reynaldo & nyx / DEF CON 33 slides, p. 29', small, MUTED)
+draw.line((46 * SCALE, 573 * SCALE, 1154 * SCALE, 573 * SCALE), fill=INK, width=SCALE)
+text(46, 590, 'Presentation, reporting and vendor advisory', label)
+card.resize((1200, 630), Image.Resampling.LANCZOS).save(
+    ROOT / 'site/assets/social.png', optimize=True)

diff --git a/AGENTS.md b/AGENTS.md
@@ -4,6 +4,7 @@ This is the independent `snitchpuck.org` research brief. Keep it separate from P
 
 - Read `README.md`, `source-register.md`, and `NOTES.md` before changing deployment or editorial claims.
 - Public source lives in `site/`. Keep the main experience a single static HTML page with local assets and clear source links.
+- Public copy must be plain and factual. The collaborator rejected the promotional title and “cringe prose”; use descriptive headings and direct summaries, without slogans, metaphors, rhetorical questions, or editorial filler. Preserve authentic source titles and attributed quotations.
 - Use `npm ci`, `npm run check`, `npm run build`, and `npm run deploy:check`. Wrangler is pinned to 4.149.0; `sharp` is overridden to 0.35.5, matching the verified patched baseline.
 - Browser-check layout changes at desktop and mobile widths, including link/anchor navigation, focus visibility, and horizontal overflow.
 - Historical vulnerability reports, vendor remediation statements, and product marketing are different evidence classes. Do not turn either reported possibilities or marketing claims into observed deployment facts.
@@ -71,3 +72,9 @@ This is the independent `snitchpuck.org` research brief. Keep it separate from P
 - For social artwork, decode the existing OFL WOFF2 fonts with fontTools and render with Pillow to keep the intended palette independent of browser extensions. Viewport overrides must be applied after creating a new browser tab; verify innerWidth rather than assuming the override inherited.
 
 - The photo publication also resolved the observed visitor gate: the network-supplied resolver now returns CF addresses, ordinary apex HTML/photo/social responses match source bytes, and the real browser loads the apex at desktop/mobile widths. Old puck.svg and missing paths return 404; www remains a 301. Documentation-only commits after this content revision do not require an asset redeploy.
+
+## Plain factual copy (2026-10-14 local)
+
+- New heading/title: “HALO sensor security research.” The revision removes the thesis, takeaway and editorial-question sections and makes descriptions, navigation, accessible text, 404 and social-preview copy factual. Preserve the research prerequisites, historical dates/versions, vendor attribution, ten sources and photograph credit.
+- `python3 scripts/make-social.py` optionally regenerates the preview using the existing local photograph/fonts. It requires Pillow, fontTools and Brotli; the normal npm static build has no Python dependency.
+- New-copy CUA/Playwright checks passed at 1280×900, 390×844 and 320×844 with no horizontal overflow, missing images or console warnings/errors. Research navigation and all ten sources remain valid. Independent editorial/factual review, static build and Wrangler dry-run passed; exact-revision publication is the remaining gate. Earlier photo-publication results remain historical.

diff --git a/NOTES.md b/NOTES.md
@@ -116,3 +116,11 @@ Public source links are in `source-register.md`. Evidence files remain ignored. 
 - Ordinary apex HTTPS now returns 200 with exact source HTML, photograph and social-image bytes; deployment.json identifies the source commit. Removed /assets/puck.svg and a missing path return 404. www still returns 301 to HTTPS apex after publication. Evidence: ignored `evidence/photo-live-http.json`.
 - Real browser loaded https://snitchpuck.org/ successfully. At 1280px and 390px the photo/fonts load, all ten sources appear, and no horizontal overflow was found. Live screenshot is in the task artifact directory as `photo-live.jpg`. The network-supplied resolver now returns CF addresses, so the previously observed ordinary visitor failure is resolved for this host.
 - This following commit records verification only; asset metadata intentionally continues to identify the content revision above.
+
+### Plain factual copy revision
+
+- Owner described the title as “kind of cringe” and requested removal of “all cringe prose.” Durable preference: plain factual titles, descriptions and headings; no promotional slogans, metaphors, rhetorical questions or editorial filler.
+- New page heading/title is “HALO sensor security research.” Removed the thesis, takeaway and editorial-question sections. Navigation, metadata, image descriptions, diagram label, 404 and social-preview wording use factual summaries. Authentic published talk/source titles remain identifiable.
+- Preserve the network/password/software prerequisites, demonstration-versus-observed-exploitation distinction, historical firmware/date scope, vendor attribution, all ten source anchors and the deck/photo-assistance credit during copy edits.
+- Added optional `scripts/make-social.py` regeneration using existing local photograph/fonts. Manual command: `python3 scripts/make-social.py`; optional dependencies are Pillow, fontTools and Brotli. The normal npm static build remains Node-only and copies the prepared social image.
+- Two independent reviews found no factual/citation drift or remaining editorial filler. CUA/Playwright checks at 1280×900, 390×844 and 320×844 passed with no horizontal overflow, missing images or console warnings/errors. Research-summary navigation and ten sources remain valid. Desktop/mobile screenshots and `plain-copy-qa.json` are in the task artifact directory. The social image was regenerated and visually inspected; static build and Wrangler dry-run passed. Exact-revision publication follows the reviewed source commit.

diff --git a/README.md b/README.md
@@ -16,6 +16,14 @@ npm run dev
 
 `site/` is the source; `scripts/build.mjs` copies it into ignored `dist/`. The build writes `dist/deployment.json` using `CF_COMMIT_SHA`, `GITHUB_SHA`, or the local Git HEAD. Before Git initialization, the marker is `uncommitted`. `npm run check` checks metadata, reviewed source links, local files, fragment targets, and duplicate IDs. It does not establish the truth of source claims or verify live external URLs. Run browser layout/accessibility checks at desktop and mobile widths before publishing design changes.
 
+Optional manual social-image regeneration:
+
+```sh
+python3 scripts/make-social.py
+```
+
+This helper requires Pillow, fontTools and Brotli and reads the existing local photograph and OFL font assets. It writes `site/assets/social.png`. The normal npm static build copies the prepared image and has no Python dependency.
+
 Compatibility date is 2026-10-13, the newest date supported by the pinned local runtime. The requested 2026-10-14 date refused local startup, so the date was aligned without changing dependencies. Review and test compatibility changes when updating Wrangler.
 
 ## Hosting
@@ -62,6 +70,8 @@ The current REST sequence is repository connection (`PUT /accounts/{account}/bui
 Reference: [custom domains](https://developers.cloudflare.com/workers/configuration/routing/custom-domains/), [Builds API setup](https://developers.cloudflare.com/workers/ci-cd/builds/api-reference/).
 
 ## Editorial boundaries
+
+Use plain factual titles and prose throughout the public page, metadata, 404 and social preview. The current copy revision uses “HALO sensor security research” and removes promotional slogans, metaphors and editorial filler. Keep published source titles and attributed quotations accurate. Desktop/mobile, source-preservation and build checks passed before publication; NOTES.md records the exact release and live checks.
 
 `source-register.md` records the reviewed sources and how they support the page. Keep historical researcher findings, vendor claims/remediation, and marketing descriptions distinct. Do not imply these historical vulnerabilities affect every present deployment or that researchers documented covert recording by an operator. Raw downloaded research evidence and browser QA artifacts stay in ignored `evidence/`.
 
